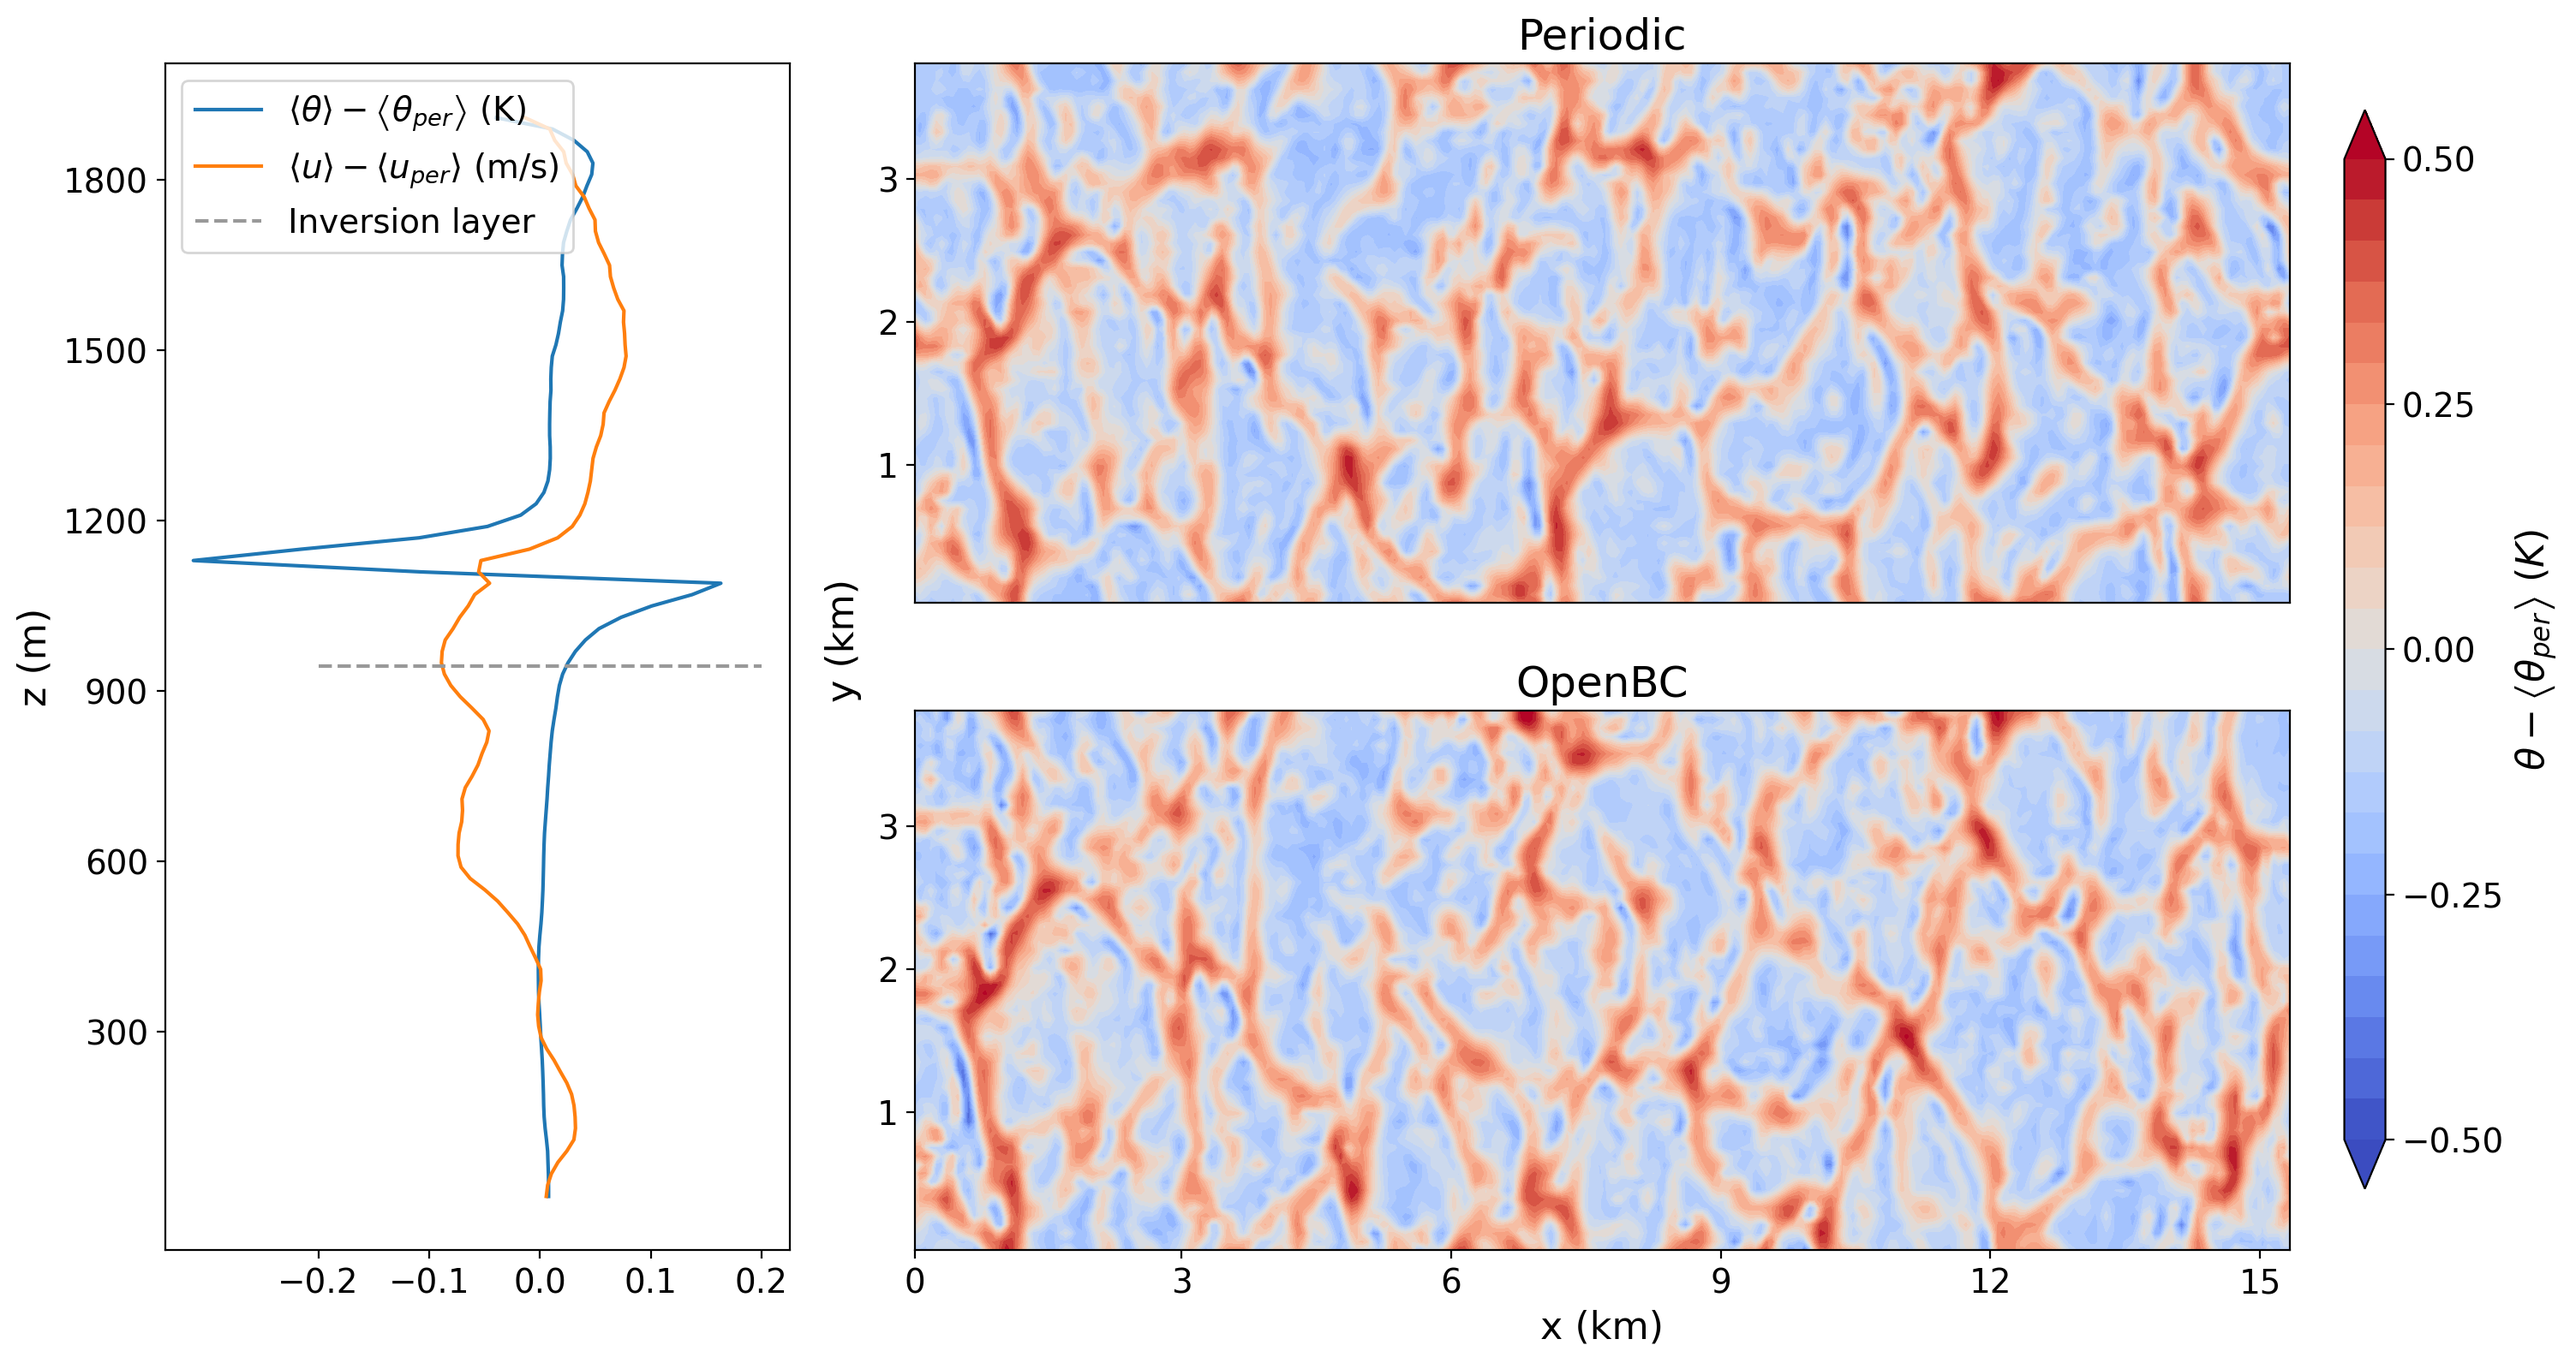
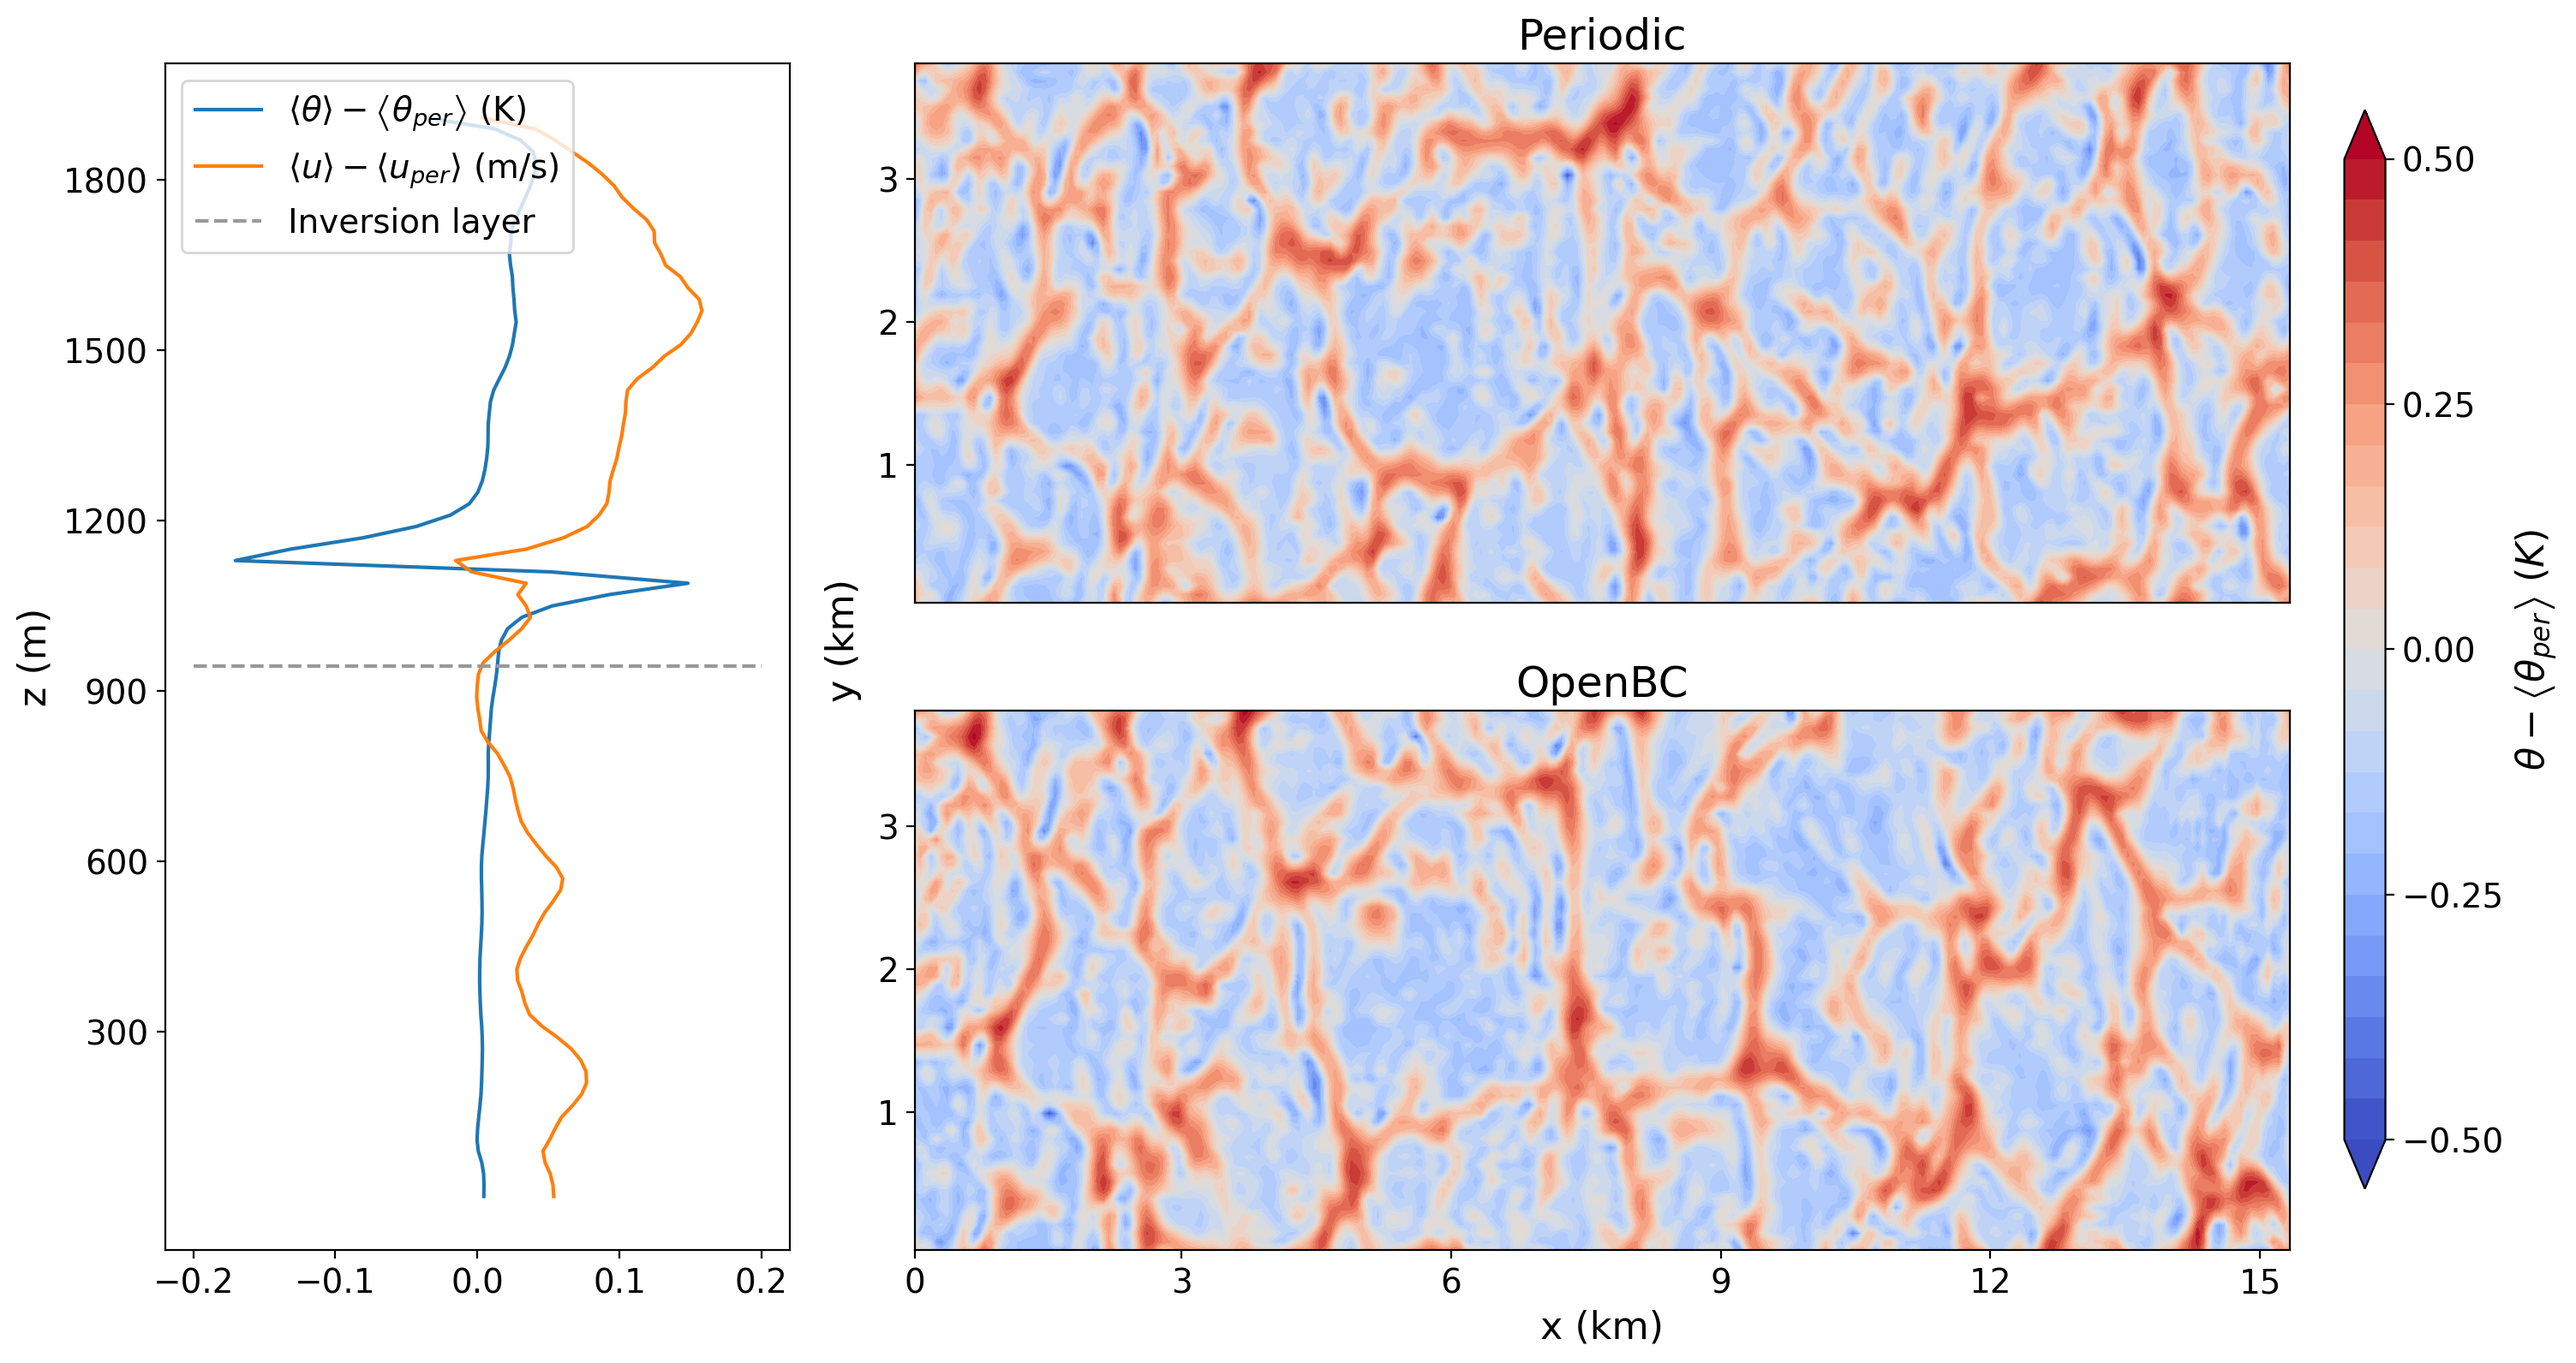
added scripts, input and results for sensitivity simulations

diff --git a/scripts/visualizeSensitivity.py b/scripts/visualizeSensitivity.py
@@ -1,0 +1,111 @@
+import numpy as np
+from netCDF4 import Dataset
+import matplotlib.pyplot as plt 
+pathSensitivity = '../cases/sensitivity/'
+pathPeriodic = '../cases/periodic/'
+pathReference = '../cases/openBC/x000y000z000t000/'
+tplot = 6*3600
+tauh_array = np.array([0,60])
+pbc_array  = np.array([2,4])
+dint_array = np.array([0,5])
+linestyles = ['--',':']
+linewidth_ref = 2
+linewidth = 1.5
+markersize = 2.5
+vars=['thl','u','wthlr','u2r']
+titles=[f"$\\overline{{\\theta}}-\\overline{{\\theta}}_{{per}}$",\
+        f"$\\overline{{u}}-\\overline{{u}}_{{per}}$",\
+        f"$\\overline{{w'\\theta'}}-\\overline{{w'\\theta'}}_{{per}}$",\
+        f"$\\overline{{u'^2}}-\\overline{{u'^2}}_{{per}}$"]
+units=[f"$(K)$", f"$(ms^{{-1}})$", f"$(Kms^{{-1}})$", f"$(m^2s^{{-2}})$"]
+limits = [1,0.2,0.02,0.2]
+legend_dint = [f"$\\Delta x_{{int}},\\Delta y_{{int}} = \\Delta x, \\Delta y$", f"$\\Delta x_{{int}},\\Delta y_{{int}} = 0.5L_x, 0.5L_y$"]
+# Set all fontsizes
+SMALL_SIZE = 14
+MEDIUM_SIZE = 16
+BIGGER_SIZE = 18
+plt.rc('font', size=MEDIUM_SIZE)         # controls default text sizes
+plt.rc('axes', titlesize=BIGGER_SIZE)    # fontsize of the axes title
+plt.rc('axes', labelsize=MEDIUM_SIZE)    # fontsize of the x and y labels
+plt.rc('xtick', labelsize=SMALL_SIZE)    # fontsize of the tick labels
+plt.rc('ytick', labelsize=SMALL_SIZE)    # fontsize of the tick labels
+plt.rc('legend', fontsize=SMALL_SIZE)    # legend fontsize
+plt.rc('figure', titlesize=BIGGER_SIZE)  # fontsize of the figure title
+fig = plt.figure()
+gs = fig.add_gridspec(25,4)
+axs = [None]*4
+axs[0] = fig.add_subplot(gs[:24,0])
+axs[1] = fig.add_subplot(gs[:24,1])
+axs[2] = fig.add_subplot(gs[:24,2])
+axs[3] = fig.add_subplot(gs[:24,3])
+for ivar in range(len(vars)):
+  var = vars[ivar]
+  # Open periodic simulation
+  nc = Dataset(f"{pathPeriodic}profiles.000.nc",'r')
+  z = nc.variables[nc.variables[var].dimensions[1]][:]
+  time = nc.variables['time'][:]
+  it = np.argwhere(time==tplot)[0][0]
+  profPeriodic = nc.variables[var][it,:]
+  nc.close()
+  # Open integration length scale variation simulations
+  for i in range(len(dint_array)):
+    dint = dint_array[i] 
+    nc = Dataset(f"{pathSensitivity}dint{dint:02}/profiles.001.nc",'r')
+    z = nc.variables[nc.variables[var].dimensions[1]][:]
+    time = nc.variables['time'][:]
+    it = np.argwhere(time==tplot)[0][0]
+    prof = nc.variables[var][it,:]
+    axs[ivar].plot(prof-profPeriodic,z,f"{linestyles[i]}C0",markersize=markersize,linewidth=linewidth,label=legend_dint[i])
+    nc.close()
+  # Open pbc variation simulations
+  for i in range(len(pbc_array)):
+    pbc = pbc_array[i] 
+    nc = Dataset(f"{pathSensitivity}pbc{pbc}/profiles.001.nc",'r')
+    z = nc.variables[nc.variables[var].dimensions[1]][:]
+    time = nc.variables['time'][:]
+    it = np.argwhere(time==tplot)[0][0]
+    prof = nc.variables[var][it,:]
+    axs[ivar].plot(prof-profPeriodic,z,f"{linestyles[i]}C1",markersize=markersize,linewidth=linewidth,label=f"$p={pbc}$")
+    nc.close()
+  # Open tauh variation simulations
+  for i in range(len(tauh_array)):
+    tauh = tauh_array[i] 
+    nc = Dataset(f"{pathSensitivity}tauh{tauh:03}/profiles.001.nc",'r')
+    z = nc.variables[nc.variables[var].dimensions[1]][:]
+    time = nc.variables['time'][:]
+    it = np.argwhere(time==tplot)[0][0]
+    prof = nc.variables[var][it,:]
+    axs[ivar].plot(prof-profPeriodic,z,f"{linestyles[i]}C2",markersize=markersize,linewidth=linewidth,label=f"$\\tau_h = {tauh}s$")
+    nc.close()
+  # Open simulation without buoyancy term at top boundary
+  nc = Dataset(f"{pathSensitivity}lbuoyoff/profiles.001.nc",'r')
+  z = nc.variables[nc.variables[var].dimensions[1]][:]
+  time = nc.variables['time'][:]
+  it = np.argwhere(time==tplot)[0][0]
+  prof = nc.variables[var][it,:]
+  axs[ivar].plot(prof-profPeriodic,z,f"{linestyles[0]}C3",linewidth=linewidth,label=f"Buoyancy top off")
+  nc.close()
+  # Open reference simulation
+  nc = Dataset(f"{pathReference}profiles.001.nc",'r')
+  zt = nc.variables[nc.variables[var].dimensions[1]][:]
+  time = nc.variables['time'][:]
+  it = np.argwhere(time==tplot)[0][0]
+  prof = nc.variables[var][it,:]
+  axs[ivar].plot(prof-profPeriodic,z,'k',linewidth=linewidth_ref,label=f"Default settings")
+  nc.close()
+  axs[ivar].grid()
+  axs[ivar].set_xlim([-limits[ivar],limits[ivar]])
+  axs[ivar].set_ylim([0,2000])
+  axs[ivar].set_xticks(np.linspace(-limits[ivar],limits[ivar],5))
+  for label in axs[ivar].xaxis.get_ticklabels()[1::2]:
+    label.set_visible(False)
+  if(ivar>0): 
+    axs[ivar].set_yticklabels('')
+  else:
+    axs[ivar].set_ylabel('z (m)')
+    h,l = axs[ivar].get_legend_handles_labels()
+  axs[ivar].set_title(titles[ivar]+' '+units[ivar])
+fig.legend(h,l,ncol=4,loc=8)
+fig.set_size_inches(16, 9)
+fig.savefig(f"../results/sensitivity.png",
+           bbox_inches='tight', dpi=200)

diff --git a/scripts/createInputOpenBC.py b/scripts/createInputOpenBC.py
@@ -6,8 +6,8 @@ import os
 # Input
 pathCases = "../cases/"
 pathWrite = "../input/boundary_input/"
-sigmaX_array = np.array([0,2])
-sigmaT_array = np.array([0])
+sigmaX_array = np.array([0,2,4,8,16])
+sigmaT_array = np.array([0,6,30,180])
 runtime = 21600
 pathPeriodic = f"{pathCases}periodic/"
 # Create write folder if doesn't exist already
